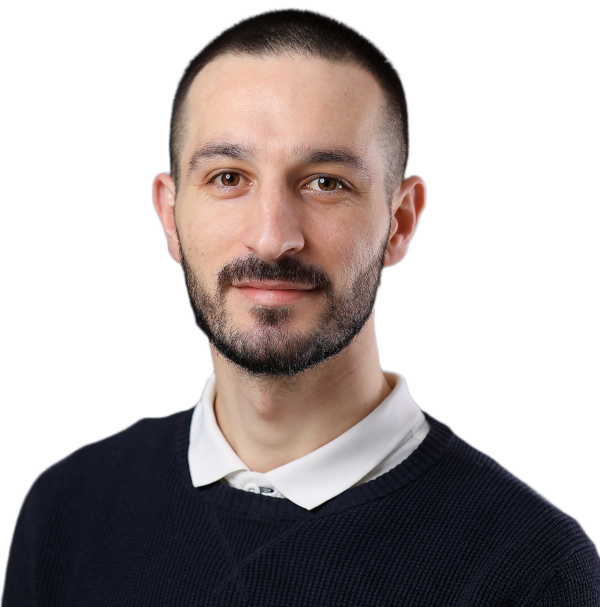
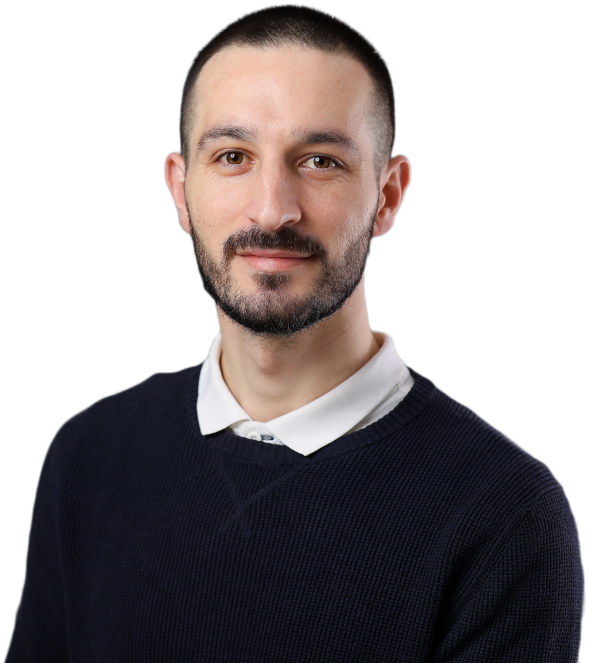
about-me section responsive

diff --git a/src/app/about-me/about-me.component.scss b/src/app/about-me/about-me.component.scss
@@ -1,4 +1,4 @@
-.about-me-section {
+section {
     display: flex;
     align-items: center;
     justify-content: space-between;
@@ -6,6 +6,7 @@
     padding: 0 10% 0 10%;
     position: relative;
     margin-top: 200px;
+    scroll-margin-top: 150px;
     margin-bottom: 200px;
 }
 
@@ -23,7 +24,7 @@
 
     p {
         font-weight: 400;
-        font-size: 1rem;
+        font-size: clamp(1rem, 0.9671052631578947rem + 0.1644736842105263vw, 1.125rem);
         line-height: 120%;
     }
 }
@@ -51,7 +52,7 @@
     }
 }
 
-.left-content-parent {
+.right-content-parent {
     display: flex;
     align-items: center;
     justify-content: center;
@@ -62,29 +63,18 @@
 
 .blue-circle {
     border: 4px solid #00BEE8;
-    padding: 8%;
-    /* oder ein anderer prozentualer Wert, der für Ihr Design geeignet ist */
-    width: clamp(300px, -24.23208191126281px + 34.129692832764505vw, 500px);
-    // width: 500px;
-    height: 400px;
-    border-radius: 50%;
+    border-radius: 100%;
     display: flex;
     align-items: center;
     justify-content: center;
     overflow: hidden;
-
-    // border: 4px solid #00BEE8;
-    // padding: 16px;
-    // // border-radius: 100%;
-    // display: flex;
-    // align-items: center;
-    // justify-content: center;
-    // overflow: hidden;
+    width: 600px;
+    height: clamp(300px, 137.8839590443686px + 17.064846416382252vw, 400px);
 
     img {
-        opacity: 0;
-        width: 26vw;
-        margin-bottom: -16px;
+        width: 90%;
+        object-fit: cover;
+        margin-top: 30px;
     }
 }
 
@@ -94,25 +84,25 @@
     height: 4px;
 }
 
-.section {
-    scroll-margin-top: 150px;
+@media(max-width:950px) {
+    .right-content-parent {
+        display: none;
+    }
+
+    .about-me-parent {
+        width: 100%;
+        z-index: 22;
+    }
+
+    section {
+        padding: 0 5% 0 5%;
+    }
+
+    .icons-div {
+        width: auto;
+
+        img {
+            margin-right: 10px;
+        }
+    }
 }
-
-
-// @media(max-width:1300px) {
-//     .about-me-section {
-//         span {
-//             font-size: clamp(2.6rem, 10 , 4.5rem);
-//         }
-//     }
-
-// }
-
-
-// @media(max-width: 380px) {
-//     .about-me-section {
-//         span {
-//             // font-size: 2.8rem;
-//         }
-//     }
-// }

diff --git a/src/app/about-me/about-me.component.html b/src/app/about-me/about-me.component.html
@@ -1,4 +1,4 @@
-<div class="about-me-section section" id="about" >
+<section class="section" id="about" >
 
     <div class="about-me-parent">
 
@@ -33,13 +33,13 @@
 
     </div>
 
-    <div class="left-content-parent">
+    <div class="right-content-parent">
         
         <div class="blue-circle">
-            <!-- <img src="assets/img/about-me.webp" alt=""> -->
+            <img src="assets/img/about-me.webp" alt="">
         </div>
 
         <div class="blue-line-right"></div>
     </div>
 
-</div>
+</section>

diff --git a/src/app/header/header.component.scss b/src/app/header/header.component.scss
@@ -70,7 +70,7 @@ nav {
     }
 }
 
-@media (max-width: 850px) {
+@media (max-width: 950px) {
     nav {
         padding: 0 5% 0 5%;
     }

diff --git a/src/app/introduction/introduction.component.scss b/src/app/introduction/introduction.component.scss
@@ -14,7 +14,7 @@ section {
 
 .introduction-img {
     width: 32vw;
-    opacity: 0;
+    // opacity: 0;
 }
 
 
